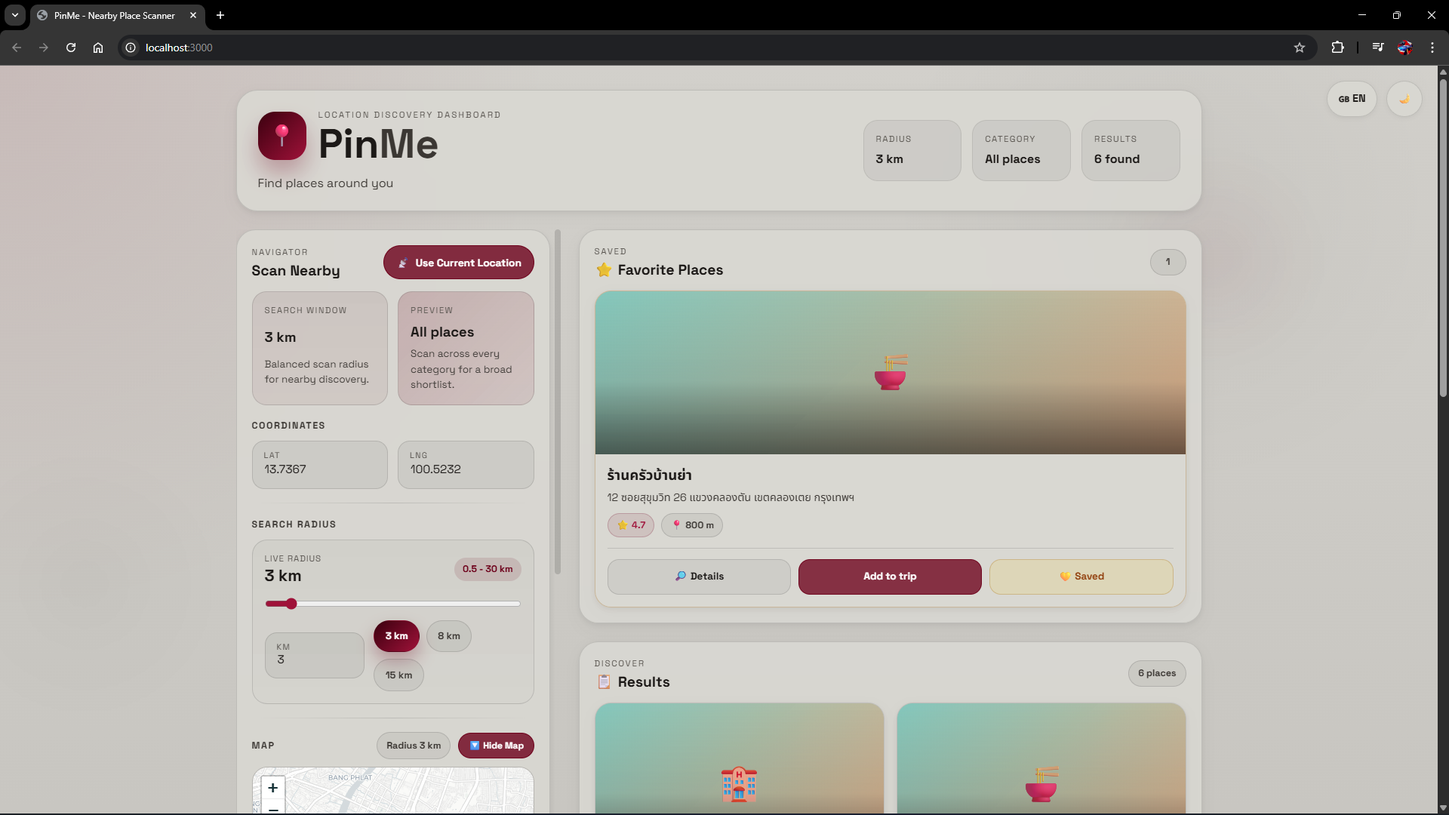
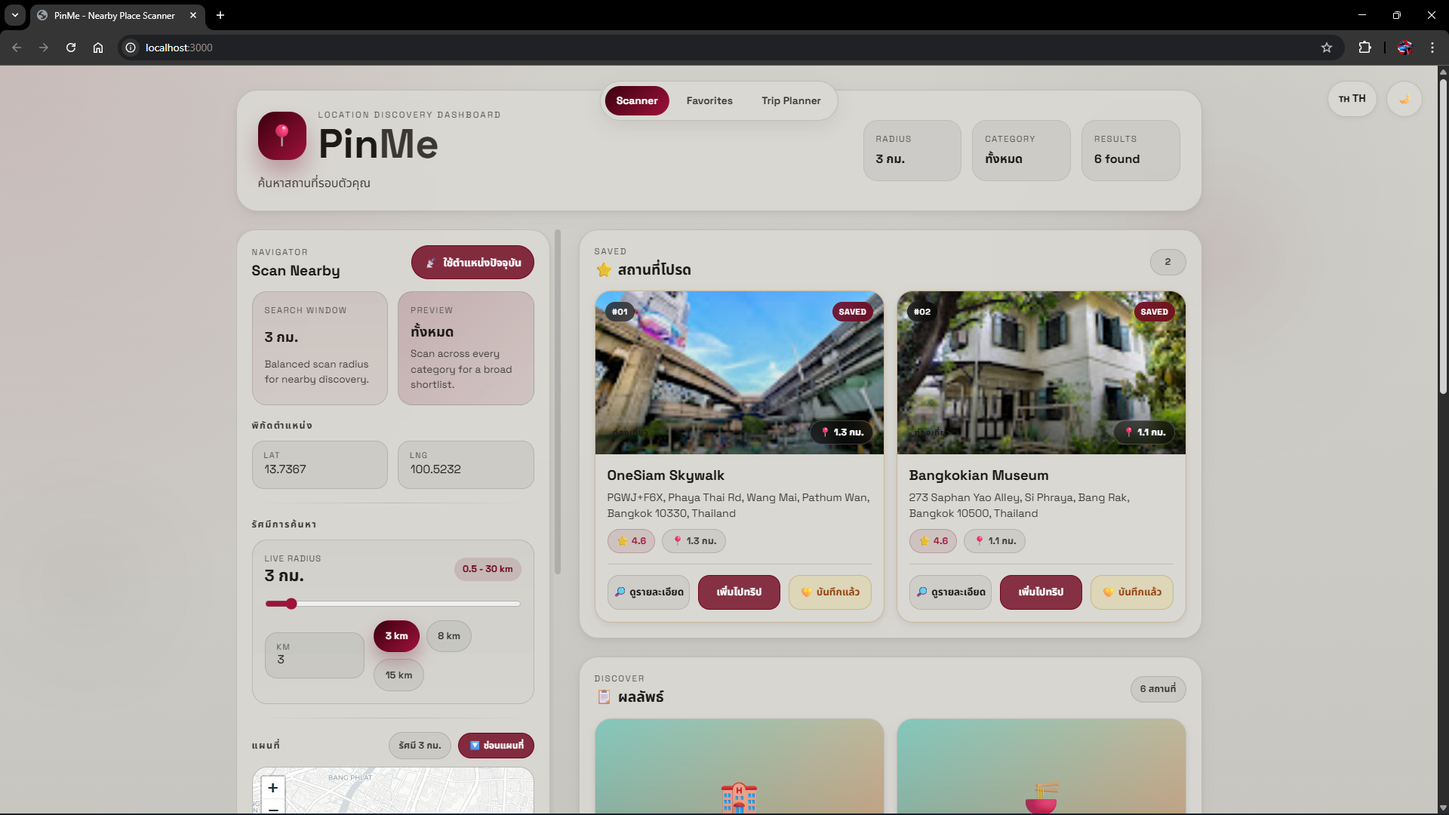
bug fixed and website screenshot updated

diff --git a/pinme_website/html-report/jest-html-reporters-attach/test-report/result.js b/pinme_website/html-report/jest-html-reporters-attach/test-report/result.js
@@ -1,1 +1,1 @@
-window.jest_html_reporters_callback__({"numFailedTestSuites":0,"numFailedTests":0,"numPassedTestSuites":3,"numPassedTests":65,"numPendingTestSuites":0,"numPendingTests":0,"numRuntimeErrorTestSuites":0,"numTodoTests":0,"numTotalTestSuites":3,"numTotalTests":65,"startTime":1776918308469,"success":false,"testResults":[{"numFailingTests":0,"numPassingTests":28,"numPendingTests":0,"numTodoTests":0,"perfStats":{"end":1776918308850,"loadTestEnvironmentEnd":1776918308559,"loadTestEnvironmentStart":1776918308486,"runtime":290,"setupAfterEnvEnd":1776918308755,"setupAfterEnvStart":1776918308755,"setupFilesEnd":1776918308560,"setupFilesStart":1776918308560,"slow":false,"start":1776918308560},"testFilePath":"C:\\Users\\ACER\\Documents\\GitHub\\pinme\\pinme_website\\back_end\\tests\\Place.test.js","failureMessage":null,"testResults":[{"ancestorTitles":["Place Model"],"duration":5,"failureMessages":[],"fullName":"Place Model TC-P01: should create place with default values when no data provided","status":"passed","title":"TC-P01: should create place with default values when no data provided"},{"ancestorTitles":["Place Model"],"duration":1,"failureMessages":[],"fullName":"Place Model TC-P02: should create place with full data correctly","status":"passed","title":"TC-P02: should create place with full data correctly"},{"ancestorTitles":["Place Model"],"duration":1,"failureMessages":[],"fullName":"Place Model TC-P03: should return true for valid coordinates","status":"passed","title":"TC-P03: should return true for valid coordinates"},{"ancestorTitles":["Place Model"],"duration":1,"failureMessages":[],"fullName":"Place Model TC-P04: should return false for out-of-range latitude (>90)","status":"passed","title":"TC-P04: should return false for out-of-range latitude (>90)"},{"ancestorTitles":["Place Model"],"duration":1,"failureMessages":[],"fullName":"Place Model TC-P04b: should return false for out-of-range longitude (>180)","status":"passed","title":"TC-P04b: should return false for out-of-range longitude (>180)"},{"ancestorTitles":["Place Model"],"duration":0,"failureMessages":[],"fullName":"Place Model TC-P05: should return false when coordinates are null","status":"passed","title":"TC-P05: should return false when coordinates are null"},{"ancestorTitles":["Place Model"],"duration":1,"failureMessages":[],"fullName":"Place Model TC-P06: should return true for valid rating (0-5)","status":"passed","title":"TC-P06: should return true for valid rating (0-5)"},{"ancestorTitles":["Place Model"],"duration":1,"failureMessages":[],"fullName":"Place Model TC-P06b: should return false for rating > 5","status":"passed","title":"TC-P06b: should return false for rating > 5"},{"ancestorTitles":["Place Model"],"duration":1,"failureMessages":[],"fullName":"Place Model TC-P06c: should return false for null rating","status":"passed","title":"TC-P06c: should return false for null rating"},{"ancestorTitles":["Place Model"],"duration":2,"failureMessages":[],"fullName":"Place Model TC-P07: should calculate distance correctly (Bangkok to Pattaya ~101 km)","status":"passed","title":"TC-P07: should calculate distance correctly (Bangkok to Pattaya ~101 km)"},{"ancestorTitles":["Place Model"],"duration":1,"failureMessages":[],"fullName":"Place Model TC-P07b: should return 0 for same coordinates","status":"passed","title":"TC-P07b: should return 0 for same coordinates"},{"ancestorTitles":["Place Model"],"duration":0,"failureMessages":[],"fullName":"Place Model TC-P07c: should return NaN for invalid input","status":"passed","title":"TC-P07c: should return NaN for invalid input"},{"ancestorTitles":["Place Model"],"duration":1,"failureMessages":[],"fullName":"Place Model TC-P08: should calculate distance from a reference point","status":"passed","title":"TC-P08: should calculate distance from a reference point"},{"ancestorTitles":["Place Model"],"duration":0,"failureMessages":[],"fullName":"Place Model TC-P08b: should return NaN when place has no coordinates","status":"passed","title":"TC-P08b: should return NaN when place has no coordinates"},{"ancestorTitles":["Place Model"],"duration":0,"failureMessages":[],"fullName":"Place Model TC-P09: should return true when place is within radius","status":"passed","title":"TC-P09: should return true when place is within radius"},{"ancestorTitles":["Place Model"],"duration":0,"failureMessages":[],"fullName":"Place Model TC-P09b: should return false when place is outside radius","status":"passed","title":"TC-P09b: should return false when place is outside radius"},{"ancestorTitles":["Place Model"],"duration":1,"failureMessages":[],"fullName":"Place Model TC-P10: should format distance >= 1km in km","status":"passed","title":"TC-P10: should format distance >= 1km in km"},{"ancestorTitles":["Place Model"],"duration":1,"failureMessages":[],"fullName":"Place Model TC-P10b: should format distance < 1km in meters","status":"passed","title":"TC-P10b: should format distance < 1km in meters"},{"ancestorTitles":["Place Model"],"duration":1,"failureMessages":[],"fullName":"Place Model TC-P10c: should return empty string when distance is null","status":"passed","title":"TC-P10c: should return empty string when distance is null"},{"ancestorTitles":["Place Model"],"duration":1,"failureMessages":[],"fullName":"Place Model TC-P11: should normalize valid category","status":"passed","title":"TC-P11: should normalize valid category"},{"ancestorTitles":["Place Model"],"duration":0,"failureMessages":[],"fullName":"Place Model TC-P11b: should return \"other\" for invalid category","status":"passed","title":"TC-P11b: should return \"other\" for invalid category"},{"ancestorTitles":["Place Model"],"duration":0,"failureMessages":[],"fullName":"Place Model TC-P12: should detect hotel from type string","status":"passed","title":"TC-P12: should detect hotel from type string"},{"ancestorTitles":["Place Model"],"duration":0,"failureMessages":[],"fullName":"Place Model TC-P12b: should detect restaurant from type string","status":"passed","title":"TC-P12b: should detect restaurant from type string"},{"ancestorTitles":["Place Model"],"duration":0,"failureMessages":[],"fullName":"Place Model TC-P12c: should detect sport from type string","status":"passed","title":"TC-P12c: should detect sport from type string"},{"ancestorTitles":["Place Model"],"duration":0,"failureMessages":[],"fullName":"Place Model TC-P12d: should default to tourist for unknown type","status":"passed","title":"TC-P12d: should default to tourist for unknown type"},{"ancestorTitles":["Place Model"],"duration":1,"failureMessages":[],"fullName":"Place Model TC-P13: should create Place from SerpAPI result","status":"passed","title":"TC-P13: should create Place from SerpAPI result"},{"ancestorTitles":["Place Model"],"duration":0,"failureMessages":[],"fullName":"Place Model TC-P13b: should return null for result without coordinates","status":"passed","title":"TC-P13b: should return null for result without coordinates"},{"ancestorTitles":["Place Model"],"duration":1,"failureMessages":[],"fullName":"Place Model TC-P14: should serialize to JSON correctly","status":"passed","title":"TC-P14: should serialize to JSON correctly"}]},{"numFailingTests":0,"numPassingTests":24,"numPendingTests":0,"numTodoTests":0,"perfStats":{"end":1776918308917,"loadTestEnvironmentEnd":1776918308860,"loadTestEnvironmentStart":1776918308856,"runtime":57,"setupAfterEnvEnd":1776918308891,"setupAfterEnvStart":1776918308891,"setupFilesEnd":1776918308860,"setupFilesStart":1776918308860,"slow":false,"start":1776918308860},"testFilePath":"C:\\Users\\ACER\\Documents\\GitHub\\pinme\\pinme_website\\back_end\\tests\\TripPlanner.test.js","failureMessage":null,"testResults":[{"ancestorTitles":["TripPlanner Model"],"duration":2,"failureMessages":[],"fullName":"TripPlanner Model TC-T01: should create empty trip planner","status":"passed","title":"TC-T01: should create empty trip planner"},{"ancestorTitles":["TripPlanner Model"],"duration":1,"failureMessages":[],"fullName":"TripPlanner Model TC-T02: should parse valid time string to minutes","status":"passed","title":"TC-T02: should parse valid time string to minutes"},{"ancestorTitles":["TripPlanner Model"],"duration":2,"failureMessages":[],"fullName":"TripPlanner Model TC-T02b: should return NaN for invalid time string","status":"passed","title":"TC-T02b: should return NaN for invalid time string"},{"ancestorTitles":["TripPlanner Model"],"duration":0,"failureMessages":[],"fullName":"TripPlanner Model TC-T03: should convert minutes back to time string","status":"passed","title":"TC-T03: should convert minutes back to time string"},{"ancestorTitles":["TripPlanner Model"],"duration":0,"failureMessages":[],"fullName":"TripPlanner Model TC-T03b: should return empty string for invalid minutes","status":"passed","title":"TC-T03b: should return empty string for invalid minutes"},{"ancestorTitles":["TripPlanner Model"],"duration":0,"failureMessages":[],"fullName":"TripPlanner Model TC-T04: should calculate duration correctly","status":"passed","title":"TC-T04: should calculate duration correctly"},{"ancestorTitles":["TripPlanner Model"],"duration":1,"failureMessages":[],"fullName":"TripPlanner Model TC-T04b: should return negative for invalid time range","status":"passed","title":"TC-T04b: should return negative for invalid time range"},{"ancestorTitles":["TripPlanner Model"],"duration":0,"failureMessages":[],"fullName":"TripPlanner Model TC-T05: should validate correct activity","status":"passed","title":"TC-T05: should validate correct activity"},{"ancestorTitles":["TripPlanner Model"],"duration":1,"failureMessages":[],"fullName":"TripPlanner Model TC-T05b: should reject empty name","status":"passed","title":"TC-T05b: should reject empty name"},{"ancestorTitles":["TripPlanner Model"],"duration":0,"failureMessages":[],"fullName":"TripPlanner Model TC-T05c: should reject when end time is before start","status":"passed","title":"TC-T05c: should reject when end time is before start"},{"ancestorTitles":["TripPlanner Model"],"duration":1,"failureMessages":[],"fullName":"TripPlanner Model TC-T05d: should reject invalid time format","status":"passed","title":"TC-T05d: should reject invalid time format"},{"ancestorTitles":["TripPlanner Model"],"duration":1,"failureMessages":[],"fullName":"TripPlanner Model TC-T06: should add activity successfully","status":"passed","title":"TC-T06: should add activity successfully"},{"ancestorTitles":["TripPlanner Model"],"duration":1,"failureMessages":[],"fullName":"TripPlanner Model TC-T06b: should reject activity with empty name","status":"passed","title":"TC-T06b: should reject activity with empty name"},{"ancestorTitles":["TripPlanner Model"],"duration":1,"failureMessages":[],"fullName":"TripPlanner Model TC-T07: should detect overlapping activities","status":"passed","title":"TC-T07: should detect overlapping activities"},{"ancestorTitles":["TripPlanner Model"],"duration":0,"failureMessages":[],"fullName":"TripPlanner Model TC-T07b: should allow non-overlapping activities","status":"passed","title":"TC-T07b: should allow non-overlapping activities"},{"ancestorTitles":["TripPlanner Model"],"duration":1,"failureMessages":[],"fullName":"TripPlanner Model TC-T07c: should detect contained overlap","status":"passed","title":"TC-T07c: should detect contained overlap"},{"ancestorTitles":["TripPlanner Model"],"duration":1,"failureMessages":[],"fullName":"TripPlanner Model TC-T08: should remove activity by index","status":"passed","title":"TC-T08: should remove activity by index"},{"ancestorTitles":["TripPlanner Model"],"duration":0,"failureMessages":[],"fullName":"TripPlanner Model TC-T08b: should return false for invalid index","status":"passed","title":"TC-T08b: should return false for invalid index"},{"ancestorTitles":["TripPlanner Model"],"duration":0,"failureMessages":[],"fullName":"TripPlanner Model TC-T09: should return activities sorted by start time","status":"passed","title":"TC-T09: should return activities sorted by start time"},{"ancestorTitles":["TripPlanner Model"],"duration":0,"failureMessages":[],"fullName":"TripPlanner Model TC-T10: should calculate total duration","status":"passed","title":"TC-T10: should calculate total duration"},{"ancestorTitles":["TripPlanner Model"],"duration":0,"failureMessages":[],"fullName":"TripPlanner Model TC-T10b: should return 0 when no activities","status":"passed","title":"TC-T10b: should return 0 when no activities"},{"ancestorTitles":["TripPlanner Model"],"duration":0,"failureMessages":[],"fullName":"TripPlanner Model TC-T11: should calculate free time slots","status":"passed","title":"TC-T11: should calculate free time slots"},{"ancestorTitles":["TripPlanner Model"],"duration":0,"failureMessages":[],"fullName":"TripPlanner Model TC-T12: should clear all activities","status":"passed","title":"TC-T12: should clear all activities"},{"ancestorTitles":["TripPlanner Model"],"duration":0,"failureMessages":[],"fullName":"TripPlanner Model TC-T13: should export correct JSON structure","status":"passed","title":"TC-T13: should export correct JSON structure"}]},{"numFailingTests":0,"numPassingTests":13,"numPendingTests":0,"numTodoTests":0,"perfStats":{"end":1776918308960,"loadTestEnvironmentEnd":1776918308921,"loadTestEnvironmentStart":1776918308919,"runtime":39,"setupAfterEnvEnd":1776918308947,"setupAfterEnvStart":1776918308947,"setupFilesEnd":1776918308921,"setupFilesStart":1776918308921,"slow":false,"start":1776918308921},"testFilePath":"C:\\Users\\ACER\\Documents\\GitHub\\pinme\\pinme_website\\back_end\\tests\\SearchQuery.test.js","failureMessage":null,"testResults":[{"ancestorTitles":["SearchQuery Model"],"duration":1,"failureMessages":[],"fullName":"SearchQuery Model TC-S01: should create with default values","status":"passed","title":"TC-S01: should create with default values"},{"ancestorTitles":["SearchQuery Model"],"duration":0,"failureMessages":[],"fullName":"SearchQuery Model TC-S02: should create with provided values","status":"passed","title":"TC-S02: should create with provided values"},{"ancestorTitles":["SearchQuery Model"],"duration":1,"failureMessages":[],"fullName":"SearchQuery Model TC-S03: should default to \"all\" for invalid category","status":"passed","title":"TC-S03: should default to \"all\" for invalid category"},{"ancestorTitles":["SearchQuery Model"],"duration":0,"failureMessages":[],"fullName":"SearchQuery Model TC-S04: should validate latitude in range [-90, 90]","status":"passed","title":"TC-S04: should validate latitude in range [-90, 90]"},{"ancestorTitles":["SearchQuery Model"],"duration":1,"failureMessages":[],"fullName":"SearchQuery Model TC-S05: should validate longitude in range [-180, 180]","status":"passed","title":"TC-S05: should validate longitude in range [-180, 180]"},{"ancestorTitles":["SearchQuery Model"],"duration":0,"failureMessages":[],"fullName":"SearchQuery Model TC-S06: should pass validation with valid coords","status":"passed","title":"TC-S06: should pass validation with valid coords"},{"ancestorTitles":["SearchQuery Model"],"duration":1,"failureMessages":[],"fullName":"SearchQuery Model TC-S06b: should fail with missing coords","status":"passed","title":"TC-S06b: should fail with missing coords"},{"ancestorTitles":["SearchQuery Model"],"duration":1,"failureMessages":[],"fullName":"SearchQuery Model TC-S07: should return correct search query per category","status":"passed","title":"TC-S07: should return correct search query per category"},{"ancestorTitles":["SearchQuery Model"],"duration":1,"failureMessages":[],"fullName":"SearchQuery Model TC-S08: should generate location bias string","status":"passed","title":"TC-S08: should generate location bias string"},{"ancestorTitles":["SearchQuery Model"],"duration":0,"failureMessages":[],"fullName":"SearchQuery Model TC-S08b: should return empty for invalid coords","status":"passed","title":"TC-S08b: should return empty for invalid coords"},{"ancestorTitles":["SearchQuery Model"],"duration":0,"failureMessages":[],"fullName":"SearchQuery Model TC-S09: should generate SerpAPI params","status":"passed","title":"TC-S09: should generate SerpAPI params"},{"ancestorTitles":["SearchQuery Model"],"duration":0,"failureMessages":[],"fullName":"SearchQuery Model TC-S09b: should return null for invalid query","status":"passed","title":"TC-S09b: should return null for invalid query"},{"ancestorTitles":["SearchQuery Model"],"duration":0,"failureMessages":[],"fullName":"SearchQuery Model TC-S10: should serialize correctly","status":"passed","title":"TC-S10: should serialize correctly"}]}],"config":{"bail":0,"changedFilesWithAncestor":false,"ci":false,"collectCoverage":false,"collectCoverageFrom":[],"coverageDirectory":"C:\\Users\\ACER\\Documents\\GitHub\\pinme\\pinme_website\\coverage","coverageProvider":"babel","coverageReporters":["json","text","lcov","clover"],"detectLeaks":false,"detectOpenHandles":false,"errorOnDeprecated":false,"expand":false,"findRelatedTests":false,"forceExit":false,"json":false,"lastCommit":false,"listTests":false,"logHeapUsage":false,"maxConcurrency":5,"maxWorkers":1,"noStackTrace":false,"nonFlagArgs":[],"notify":false,"notifyMode":"failure-change","onlyChanged":false,"onlyFailures":false,"openHandlesTimeout":1000,"passWithNoTests":false,"projects":[],"reporters":[["default",{}],["C:\\Users\\ACER\\Documents\\GitHub\\pinme\\pinme_website\\node_modules\\jest-html-reporters\\index.js",{"publicPath":"./html-report","filename":"test-report.html","expand":true,"pageTitle":"PinMe Test Case Report"}]],"rootDir":"C:\\Users\\ACER\\Documents\\GitHub\\pinme\\pinme_website","runInBand":true,"runTestsByPath":false,"seed":937835285,"skipFilter":false,"snapshotFormat":{"escapeString":false,"printBasicPrototype":false},"testFailureExitCode":1,"testPathPatterns":{"patterns":[],"type":"TestPathPatterns"},"testSequencer":"C:\\Users\\ACER\\Documents\\GitHub\\pinme\\pinme_website\\node_modules\\@jest\\test-sequencer\\build\\index.js","updateSnapshot":"new","useStderr":false,"verbose":true,"waitForUnhandledRejections":false,"watch":false,"watchAll":false,"watchman":true,"workerThreads":false},"endTime":1776918308963,"_reporterOptions":{"publicPath":"./html-report","filename":"test-report.html","expand":true,"pageTitle":"PinMe Test Case Report","hideIcon":false,"testCommand":"","openReport":false,"failureMessageOnly":0,"enableMergeData":false,"dataMergeLevel":1,"inlineSource":false,"urlForTestFiles":"","darkTheme":false,"includeConsoleLog":false,"stripSkippedTest":false},"logInfoMapping":{},"attachInfos":{}})
+window.jest_html_reporters_callback__({"numFailedTestSuites":0,"numFailedTests":0,"numPassedTestSuites":3,"numPassedTests":65,"numPendingTestSuites":0,"numPendingTests":0,"numRuntimeErrorTestSuites":0,"numTodoTests":0,"numTotalTestSuites":3,"numTotalTests":65,"startTime":1776924255805,"success":false,"testResults":[{"numFailingTests":0,"numPassingTests":24,"numPendingTests":0,"numTodoTests":0,"perfStats":{"end":1776924256055,"loadTestEnvironmentEnd":1776924255861,"loadTestEnvironmentStart":1776924255824,"runtime":193,"setupAfterEnvEnd":1776924255987,"setupAfterEnvStart":1776924255987,"setupFilesEnd":1776924255862,"setupFilesStart":1776924255862,"slow":false,"start":1776924255862},"testFilePath":"C:\\Users\\Tact\\Documents\\GitHub\\software_engineering\\pinme\\pinme_website\\back_end\\tests\\TripPlanner.test.js","failureMessage":null,"testResults":[{"ancestorTitles":["TripPlanner Model"],"duration":2,"failureMessages":[],"fullName":"TripPlanner Model TC-T01: should create empty trip planner","status":"passed","title":"TC-T01: should create empty trip planner"},{"ancestorTitles":["TripPlanner Model"],"duration":1,"failureMessages":[],"fullName":"TripPlanner Model TC-T02: should parse valid time string to minutes","status":"passed","title":"TC-T02: should parse valid time string to minutes"},{"ancestorTitles":["TripPlanner Model"],"duration":0,"failureMessages":[],"fullName":"TripPlanner Model TC-T02b: should return NaN for invalid time string","status":"passed","title":"TC-T02b: should return NaN for invalid time string"},{"ancestorTitles":["TripPlanner Model"],"duration":0,"failureMessages":[],"fullName":"TripPlanner Model TC-T03: should convert minutes back to time string","status":"passed","title":"TC-T03: should convert minutes back to time string"},{"ancestorTitles":["TripPlanner Model"],"duration":1,"failureMessages":[],"fullName":"TripPlanner Model TC-T03b: should return empty string for invalid minutes","status":"passed","title":"TC-T03b: should return empty string for invalid minutes"},{"ancestorTitles":["TripPlanner Model"],"duration":0,"failureMessages":[],"fullName":"TripPlanner Model TC-T04: should calculate duration correctly","status":"passed","title":"TC-T04: should calculate duration correctly"},{"ancestorTitles":["TripPlanner Model"],"duration":0,"failureMessages":[],"fullName":"TripPlanner Model TC-T04b: should return negative for invalid time range","status":"passed","title":"TC-T04b: should return negative for invalid time range"},{"ancestorTitles":["TripPlanner Model"],"duration":1,"failureMessages":[],"fullName":"TripPlanner Model TC-T05: should validate correct activity","status":"passed","title":"TC-T05: should validate correct activity"},{"ancestorTitles":["TripPlanner Model"],"duration":0,"failureMessages":[],"fullName":"TripPlanner Model TC-T05b: should reject empty name","status":"passed","title":"TC-T05b: should reject empty name"},{"ancestorTitles":["TripPlanner Model"],"duration":0,"failureMessages":[],"fullName":"TripPlanner Model TC-T05c: should reject when end time is before start","status":"passed","title":"TC-T05c: should reject when end time is before start"},{"ancestorTitles":["TripPlanner Model"],"duration":0,"failureMessages":[],"fullName":"TripPlanner Model TC-T05d: should reject invalid time format","status":"passed","title":"TC-T05d: should reject invalid time format"},{"ancestorTitles":["TripPlanner Model"],"duration":0,"failureMessages":[],"fullName":"TripPlanner Model TC-T06: should add activity successfully","status":"passed","title":"TC-T06: should add activity successfully"},{"ancestorTitles":["TripPlanner Model"],"duration":1,"failureMessages":[],"fullName":"TripPlanner Model TC-T06b: should reject activity with empty name","status":"passed","title":"TC-T06b: should reject activity with empty name"},{"ancestorTitles":["TripPlanner Model"],"duration":0,"failureMessages":[],"fullName":"TripPlanner Model TC-T07: should detect overlapping activities","status":"passed","title":"TC-T07: should detect overlapping activities"},{"ancestorTitles":["TripPlanner Model"],"duration":1,"failureMessages":[],"fullName":"TripPlanner Model TC-T07b: should allow non-overlapping activities","status":"passed","title":"TC-T07b: should allow non-overlapping activities"},{"ancestorTitles":["TripPlanner Model"],"duration":0,"failureMessages":[],"fullName":"TripPlanner Model TC-T07c: should detect contained overlap","status":"passed","title":"TC-T07c: should detect contained overlap"},{"ancestorTitles":["TripPlanner Model"],"duration":1,"failureMessages":[],"fullName":"TripPlanner Model TC-T08: should remove activity by index","status":"passed","title":"TC-T08: should remove activity by index"},{"ancestorTitles":["TripPlanner Model"],"duration":1,"failureMessages":[],"fullName":"TripPlanner Model TC-T08b: should return false for invalid index","status":"passed","title":"TC-T08b: should return false for invalid index"},{"ancestorTitles":["TripPlanner Model"],"duration":0,"failureMessages":[],"fullName":"TripPlanner Model TC-T09: should return activities sorted by start time","status":"passed","title":"TC-T09: should return activities sorted by start time"},{"ancestorTitles":["TripPlanner Model"],"duration":1,"failureMessages":[],"fullName":"TripPlanner Model TC-T10: should calculate total duration","status":"passed","title":"TC-T10: should calculate total duration"},{"ancestorTitles":["TripPlanner Model"],"duration":0,"failureMessages":[],"fullName":"TripPlanner Model TC-T10b: should return 0 when no activities","status":"passed","title":"TC-T10b: should return 0 when no activities"},{"ancestorTitles":["TripPlanner Model"],"duration":1,"failureMessages":[],"fullName":"TripPlanner Model TC-T11: should calculate free time slots","status":"passed","title":"TC-T11: should calculate free time slots"},{"ancestorTitles":["TripPlanner Model"],"duration":0,"failureMessages":[],"fullName":"TripPlanner Model TC-T12: should clear all activities","status":"passed","title":"TC-T12: should clear all activities"},{"ancestorTitles":["TripPlanner Model"],"duration":0,"failureMessages":[],"fullName":"TripPlanner Model TC-T13: should export correct JSON structure","status":"passed","title":"TC-T13: should export correct JSON structure"}]},{"numFailingTests":0,"numPassingTests":28,"numPendingTests":0,"numTodoTests":0,"perfStats":{"end":1776924256129,"loadTestEnvironmentEnd":1776924256070,"loadTestEnvironmentStart":1776924256066,"runtime":59,"setupAfterEnvEnd":1776924256104,"setupAfterEnvStart":1776924256104,"setupFilesEnd":1776924256070,"setupFilesStart":1776924256070,"slow":false,"start":1776924256070},"testFilePath":"C:\\Users\\Tact\\Documents\\GitHub\\software_engineering\\pinme\\pinme_website\\back_end\\tests\\Place.test.js","failureMessage":null,"testResults":[{"ancestorTitles":["Place Model"],"duration":1,"failureMessages":[],"fullName":"Place Model TC-P01: should create place with default values when no data provided","status":"passed","title":"TC-P01: should create place with default values when no data provided"},{"ancestorTitles":["Place Model"],"duration":0,"failureMessages":[],"fullName":"Place Model TC-P02: should create place with full data correctly","status":"passed","title":"TC-P02: should create place with full data correctly"},{"ancestorTitles":["Place Model"],"duration":0,"failureMessages":[],"fullName":"Place Model TC-P03: should return true for valid coordinates","status":"passed","title":"TC-P03: should return true for valid coordinates"},{"ancestorTitles":["Place Model"],"duration":0,"failureMessages":[],"fullName":"Place Model TC-P04: should return false for out-of-range latitude (>90)","status":"passed","title":"TC-P04: should return false for out-of-range latitude (>90)"},{"ancestorTitles":["Place Model"],"duration":1,"failureMessages":[],"fullName":"Place Model TC-P04b: should return false for out-of-range longitude (>180)","status":"passed","title":"TC-P04b: should return false for out-of-range longitude (>180)"},{"ancestorTitles":["Place Model"],"duration":0,"failureMessages":[],"fullName":"Place Model TC-P05: should return false when coordinates are null","status":"passed","title":"TC-P05: should return false when coordinates are null"},{"ancestorTitles":["Place Model"],"duration":1,"failureMessages":[],"fullName":"Place Model TC-P06: should return true for valid rating (0-5)","status":"passed","title":"TC-P06: should return true for valid rating (0-5)"},{"ancestorTitles":["Place Model"],"duration":0,"failureMessages":[],"fullName":"Place Model TC-P06b: should return false for rating > 5","status":"passed","title":"TC-P06b: should return false for rating > 5"},{"ancestorTitles":["Place Model"],"duration":0,"failureMessages":[],"fullName":"Place Model TC-P06c: should return false for null rating","status":"passed","title":"TC-P06c: should return false for null rating"},{"ancestorTitles":["Place Model"],"duration":0,"failureMessages":[],"fullName":"Place Model TC-P07: should calculate distance correctly (Bangkok to Pattaya ~101 km)","status":"passed","title":"TC-P07: should calculate distance correctly (Bangkok to Pattaya ~101 km)"},{"ancestorTitles":["Place Model"],"duration":1,"failureMessages":[],"fullName":"Place Model TC-P07b: should return 0 for same coordinates","status":"passed","title":"TC-P07b: should return 0 for same coordinates"},{"ancestorTitles":["Place Model"],"duration":0,"failureMessages":[],"fullName":"Place Model TC-P07c: should return NaN for invalid input","status":"passed","title":"TC-P07c: should return NaN for invalid input"},{"ancestorTitles":["Place Model"],"duration":0,"failureMessages":[],"fullName":"Place Model TC-P08: should calculate distance from a reference point","status":"passed","title":"TC-P08: should calculate distance from a reference point"},{"ancestorTitles":["Place Model"],"duration":0,"failureMessages":[],"fullName":"Place Model TC-P08b: should return NaN when place has no coordinates","status":"passed","title":"TC-P08b: should return NaN when place has no coordinates"},{"ancestorTitles":["Place Model"],"duration":0,"failureMessages":[],"fullName":"Place Model TC-P09: should return true when place is within radius","status":"passed","title":"TC-P09: should return true when place is within radius"},{"ancestorTitles":["Place Model"],"duration":0,"failureMessages":[],"fullName":"Place Model TC-P09b: should return false when place is outside radius","status":"passed","title":"TC-P09b: should return false when place is outside radius"},{"ancestorTitles":["Place Model"],"duration":0,"failureMessages":[],"fullName":"Place Model TC-P10: should format distance >= 1km in km","status":"passed","title":"TC-P10: should format distance >= 1km in km"},{"ancestorTitles":["Place Model"],"duration":0,"failureMessages":[],"fullName":"Place Model TC-P10b: should format distance < 1km in meters","status":"passed","title":"TC-P10b: should format distance < 1km in meters"},{"ancestorTitles":["Place Model"],"duration":0,"failureMessages":[],"fullName":"Place Model TC-P10c: should return empty string when distance is null","status":"passed","title":"TC-P10c: should return empty string when distance is null"},{"ancestorTitles":["Place Model"],"duration":0,"failureMessages":[],"fullName":"Place Model TC-P11: should normalize valid category","status":"passed","title":"TC-P11: should normalize valid category"},{"ancestorTitles":["Place Model"],"duration":0,"failureMessages":[],"fullName":"Place Model TC-P11b: should return \"other\" for invalid category","status":"passed","title":"TC-P11b: should return \"other\" for invalid category"},{"ancestorTitles":["Place Model"],"duration":0,"failureMessages":[],"fullName":"Place Model TC-P12: should detect hotel from type string","status":"passed","title":"TC-P12: should detect hotel from type string"},{"ancestorTitles":["Place Model"],"duration":0,"failureMessages":[],"fullName":"Place Model TC-P12b: should detect restaurant from type string","status":"passed","title":"TC-P12b: should detect restaurant from type string"},{"ancestorTitles":["Place Model"],"duration":0,"failureMessages":[],"fullName":"Place Model TC-P12c: should detect sport from type string","status":"passed","title":"TC-P12c: should detect sport from type string"},{"ancestorTitles":["Place Model"],"duration":0,"failureMessages":[],"fullName":"Place Model TC-P12d: should default to tourist for unknown type","status":"passed","title":"TC-P12d: should default to tourist for unknown type"},{"ancestorTitles":["Place Model"],"duration":0,"failureMessages":[],"fullName":"Place Model TC-P13: should create Place from SerpAPI result","status":"passed","title":"TC-P13: should create Place from SerpAPI result"},{"ancestorTitles":["Place Model"],"duration":0,"failureMessages":[],"fullName":"Place Model TC-P13b: should return null for result without coordinates","status":"passed","title":"TC-P13b: should return null for result without coordinates"},{"ancestorTitles":["Place Model"],"duration":0,"failureMessages":[],"fullName":"Place Model TC-P14: should serialize to JSON correctly","status":"passed","title":"TC-P14: should serialize to JSON correctly"}]},{"numFailingTests":0,"numPassingTests":13,"numPendingTests":0,"numTodoTests":0,"perfStats":{"end":1776924256193,"loadTestEnvironmentEnd":1776924256149,"loadTestEnvironmentStart":1776924256146,"runtime":44,"setupAfterEnvEnd":1776924256177,"setupAfterEnvStart":1776924256177,"setupFilesEnd":1776924256149,"setupFilesStart":1776924256149,"slow":false,"start":1776924256149},"testFilePath":"C:\\Users\\Tact\\Documents\\GitHub\\software_engineering\\pinme\\pinme_website\\back_end\\tests\\SearchQuery.test.js","failureMessage":null,"testResults":[{"ancestorTitles":["SearchQuery Model"],"duration":1,"failureMessages":[],"fullName":"SearchQuery Model TC-S01: should create with default values","status":"passed","title":"TC-S01: should create with default values"},{"ancestorTitles":["SearchQuery Model"],"duration":0,"failureMessages":[],"fullName":"SearchQuery Model TC-S02: should create with provided values","status":"passed","title":"TC-S02: should create with provided values"},{"ancestorTitles":["SearchQuery Model"],"duration":0,"failureMessages":[],"fullName":"SearchQuery Model TC-S03: should default to \"all\" for invalid category","status":"passed","title":"TC-S03: should default to \"all\" for invalid category"},{"ancestorTitles":["SearchQuery Model"],"duration":0,"failureMessages":[],"fullName":"SearchQuery Model TC-S04: should validate latitude in range [-90, 90]","status":"passed","title":"TC-S04: should validate latitude in range [-90, 90]"},{"ancestorTitles":["SearchQuery Model"],"duration":1,"failureMessages":[],"fullName":"SearchQuery Model TC-S05: should validate longitude in range [-180, 180]","status":"passed","title":"TC-S05: should validate longitude in range [-180, 180]"},{"ancestorTitles":["SearchQuery Model"],"duration":0,"failureMessages":[],"fullName":"SearchQuery Model TC-S06: should pass validation with valid coords","status":"passed","title":"TC-S06: should pass validation with valid coords"},{"ancestorTitles":["SearchQuery Model"],"duration":1,"failureMessages":[],"fullName":"SearchQuery Model TC-S06b: should fail with missing coords","status":"passed","title":"TC-S06b: should fail with missing coords"},{"ancestorTitles":["SearchQuery Model"],"duration":0,"failureMessages":[],"fullName":"SearchQuery Model TC-S07: should return correct search query per category","status":"passed","title":"TC-S07: should return correct search query per category"},{"ancestorTitles":["SearchQuery Model"],"duration":0,"failureMessages":[],"fullName":"SearchQuery Model TC-S08: should generate location bias string","status":"passed","title":"TC-S08: should generate location bias string"},{"ancestorTitles":["SearchQuery Model"],"duration":0,"failureMessages":[],"fullName":"SearchQuery Model TC-S08b: should return empty for invalid coords","status":"passed","title":"TC-S08b: should return empty for invalid coords"},{"ancestorTitles":["SearchQuery Model"],"duration":1,"failureMessages":[],"fullName":"SearchQuery Model TC-S09: should generate SerpAPI params","status":"passed","title":"TC-S09: should generate SerpAPI params"},{"ancestorTitles":["SearchQuery Model"],"duration":1,"failureMessages":[],"fullName":"SearchQuery Model TC-S09b: should return null for invalid query","status":"passed","title":"TC-S09b: should return null for invalid query"},{"ancestorTitles":["SearchQuery Model"],"duration":0,"failureMessages":[],"fullName":"SearchQuery Model TC-S10: should serialize correctly","status":"passed","title":"TC-S10: should serialize correctly"}]}],"config":{"bail":0,"changedFilesWithAncestor":false,"ci":false,"collectCoverage":true,"collectCoverageFrom":[],"coverageDirectory":"C:\\Users\\Tact\\Documents\\GitHub\\software_engineering\\pinme\\pinme_website\\coverage","coverageProvider":"babel","coverageReporters":["json","text","lcov","clover"],"detectLeaks":false,"detectOpenHandles":false,"errorOnDeprecated":false,"expand":false,"findRelatedTests":false,"forceExit":false,"json":false,"lastCommit":false,"listTests":false,"logHeapUsage":false,"maxConcurrency":5,"maxWorkers":15,"noStackTrace":false,"nonFlagArgs":[],"notify":false,"notifyMode":"failure-change","onlyChanged":false,"onlyFailures":false,"openHandlesTimeout":1000,"passWithNoTests":false,"projects":[],"reporters":[["default",{}],["C:\\Users\\Tact\\Documents\\GitHub\\software_engineering\\pinme\\pinme_website\\node_modules\\jest-html-reporters\\index.js",{"publicPath":"./html-report","filename":"test-report.html","expand":true,"pageTitle":"PinMe Test Case Report"}]],"rootDir":"C:\\Users\\Tact\\Documents\\GitHub\\software_engineering\\pinme\\pinme_website","runInBand":false,"runTestsByPath":false,"seed":1344290727,"skipFilter":false,"snapshotFormat":{"escapeString":false,"printBasicPrototype":false},"testFailureExitCode":1,"testPathPatterns":{"patterns":[],"type":"TestPathPatterns"},"testSequencer":"C:\\Users\\Tact\\Documents\\GitHub\\software_engineering\\pinme\\pinme_website\\node_modules\\@jest\\test-sequencer\\build\\index.js","updateSnapshot":"new","useStderr":false,"verbose":true,"waitForUnhandledRejections":false,"watch":false,"watchAll":false,"watchman":true,"workerThreads":false,"coverageLinkPath":"..\\coverage\\lcov-report\\index.html"},"endTime":1776924256200,"_reporterOptions":{"publicPath":"./html-report","filename":"test-report.html","expand":true,"pageTitle":"PinMe Test Case Report","hideIcon":false,"testCommand":"","openReport":false,"failureMessageOnly":0,"enableMergeData":false,"dataMergeLevel":1,"inlineSource":false,"urlForTestFiles":"","darkTheme":false,"includeConsoleLog":false,"stripSkippedTest":false},"logInfoMapping":{},"attachInfos":{}})

diff --git a/pinme_website/front_end/js/data/translations.js b/pinme_website/front_end/js/data/translations.js
@@ -4,6 +4,9 @@
 
 export const TRANSLATIONS = {
   th: {
+    nav_scanner: 'สแกน',
+    nav_favorites: 'ที่บันทึกไว้',
+    nav_trip: 'แผนทริป',
     subtitle: 'ค้นหาสถานที่รอบตัวคุณ',
     label_coords: 'พิกัดตำแหน่ง',
     btn_gps: 'ใช้ตำแหน่งปัจจุบัน',
@@ -77,6 +80,9 @@ export const TRANSLATIONS = {
     trip_added: '✅ เพิ่ม "{name}" ลงแผนทริปแล้ว',
   },
   en: {
+    nav_scanner: 'Scanner',
+    nav_favorites: 'Favorites',
+    nav_trip: 'Trip Planner',
     subtitle: 'Find places around you',
     label_coords: 'Coordinates',
     btn_gps: 'Use Current Location',

diff --git a/pinme_website/front_end/css/style.css b/pinme_website/front_end/css/style.css
@@ -484,6 +484,17 @@ body {
   box-shadow: 0 0 0 4px var(--primary-glow);
 }
 
+option {
+  background: var(--bg-dark);
+  color: var(--text-primary);
+}
+
+html.light-theme option {
+  background: #ffffff;
+  color: var(--text-primary);
+}
+
+
 .gps-btn,
 .mini-btn {
   display: inline-flex;
@@ -1251,6 +1262,12 @@ body {
   color: #ffd5dd;
   border-color: rgba(251, 113, 133, 0.32);
   background: rgba(251, 113, 133, 0.08);
+}
+
+html.light-theme .page-danger-btn {
+  color: var(--error);
+  border-color: rgba(185, 28, 74, 0.4);
+  background: rgba(185, 28, 74, 0.12);
 }
 
 .trip-item-editable {

diff --git a/pinme_website/front_end/index.html b/pinme_website/front_end/index.html
@@ -25,9 +25,9 @@
   </div>
 
   <nav class="app-nav" aria-label="PinMe pages">
-    <a href="index.html" class="app-nav-link active">Scanner</a>
-    <a href="favorites.html" class="app-nav-link">Favorites</a>
-    <a href="trip-planner.html" class="app-nav-link">Trip Planner</a>
+    <a href="index.html" class="app-nav-link active" data-i18n="nav_scanner">Scanner</a>
+    <a href="favorites.html" class="app-nav-link" data-i18n="nav_favorites">Favorites</a>
+    <a href="trip-planner.html" class="app-nav-link" data-i18n="nav_trip">Trip Planner</a>
   </nav>
 
   <main class="app-shell">
